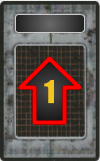
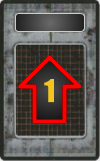
Added switch in MovementCard to choose correct texture according to action

diff --git a/src/main/java/no/uib/inf112/core/map/cards/MovementCard.java b/src/main/java/no/uib/inf112/core/map/cards/MovementCard.java
@@ -21,9 +21,31 @@ public class MovementCard implements Card {
         this.action = action;
         this.priority = priority;
         if (!GameGraphics.HEADLESS) {
-            textureRegion = UIHandler.CARDS_TEXTURE;
+            textureRegion = textureFromAction();
         }
     }
+
+    private TextureRegion textureFromAction() {
+        switch (action) {
+            case MOVE_1:
+                return UIHandler.MOVE1_TEXTURE;
+            case MOVE_2:
+                return UIHandler.MOVE2_TEXTURE;
+            case MOVE_3:
+                return UIHandler.MOVE3_TEXTURE;
+            case BACK_UP:
+                return UIHandler.BACK_UP_TEXTURE;
+            case LEFT_TURN:
+                return UIHandler.TURN_LEFT_TEXTURE;
+            case RIGHT_TURN:
+                return UIHandler.TURN_RIGHT_TEXTURE;
+            case U_TURN:
+                return UIHandler.U_TURN_TEXTURE;
+            default:
+                return null;
+        }
+    }
+
 
     /**
      * @return The action (movement) imposed by this card
